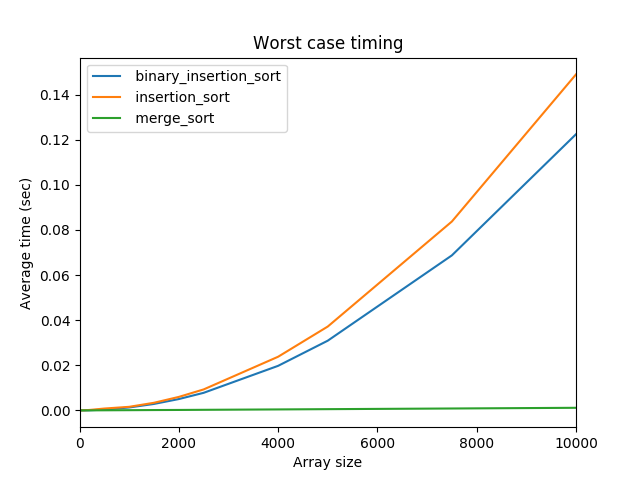
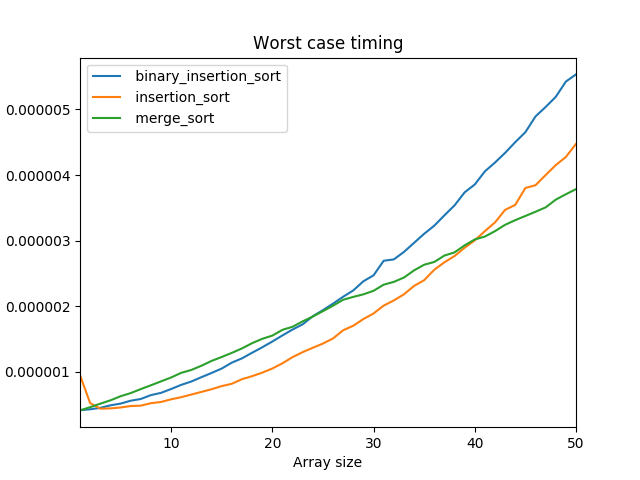
Ran new timing of sorting algos and added lot to README

diff --git a/README.md b/README.md
@@ -1,3 +1,10 @@
 # Algorithms and Data Structures
 
 This repo contains the C-code which is the result of my self-study of _Introduction to Algorithms_ by Cormen, Leiserson, Rivest & Stein.  
+
+
+## Part 1 - Foundations
+
+### Getting Satrted
+
+ ![Sorting algos worst case timings](algos_and_data_structures/Part_1_Foundations/Chap_2_Getting_Started/time_measurments.png) 
